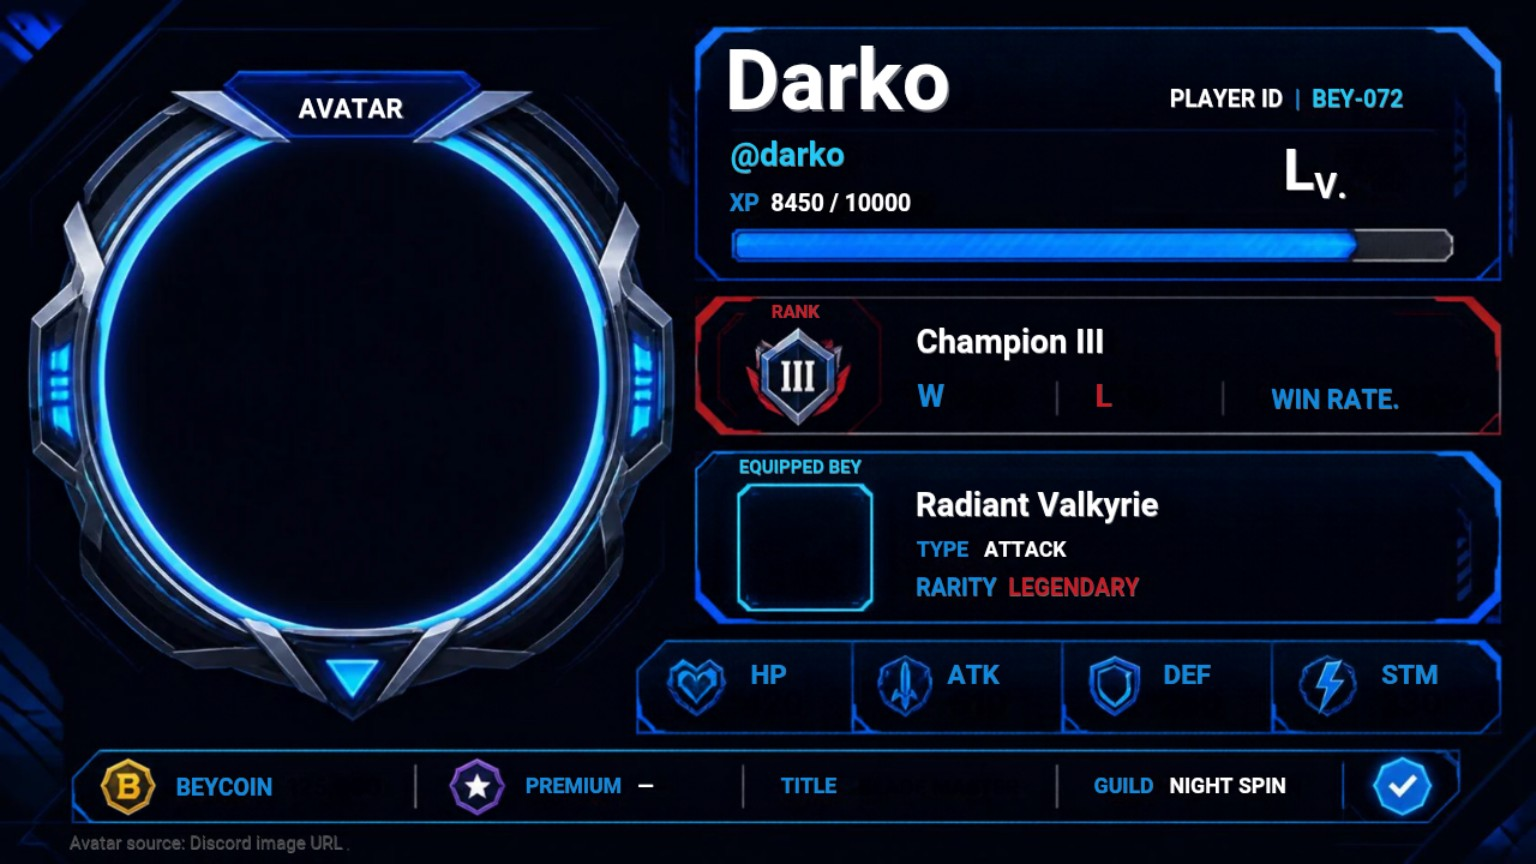
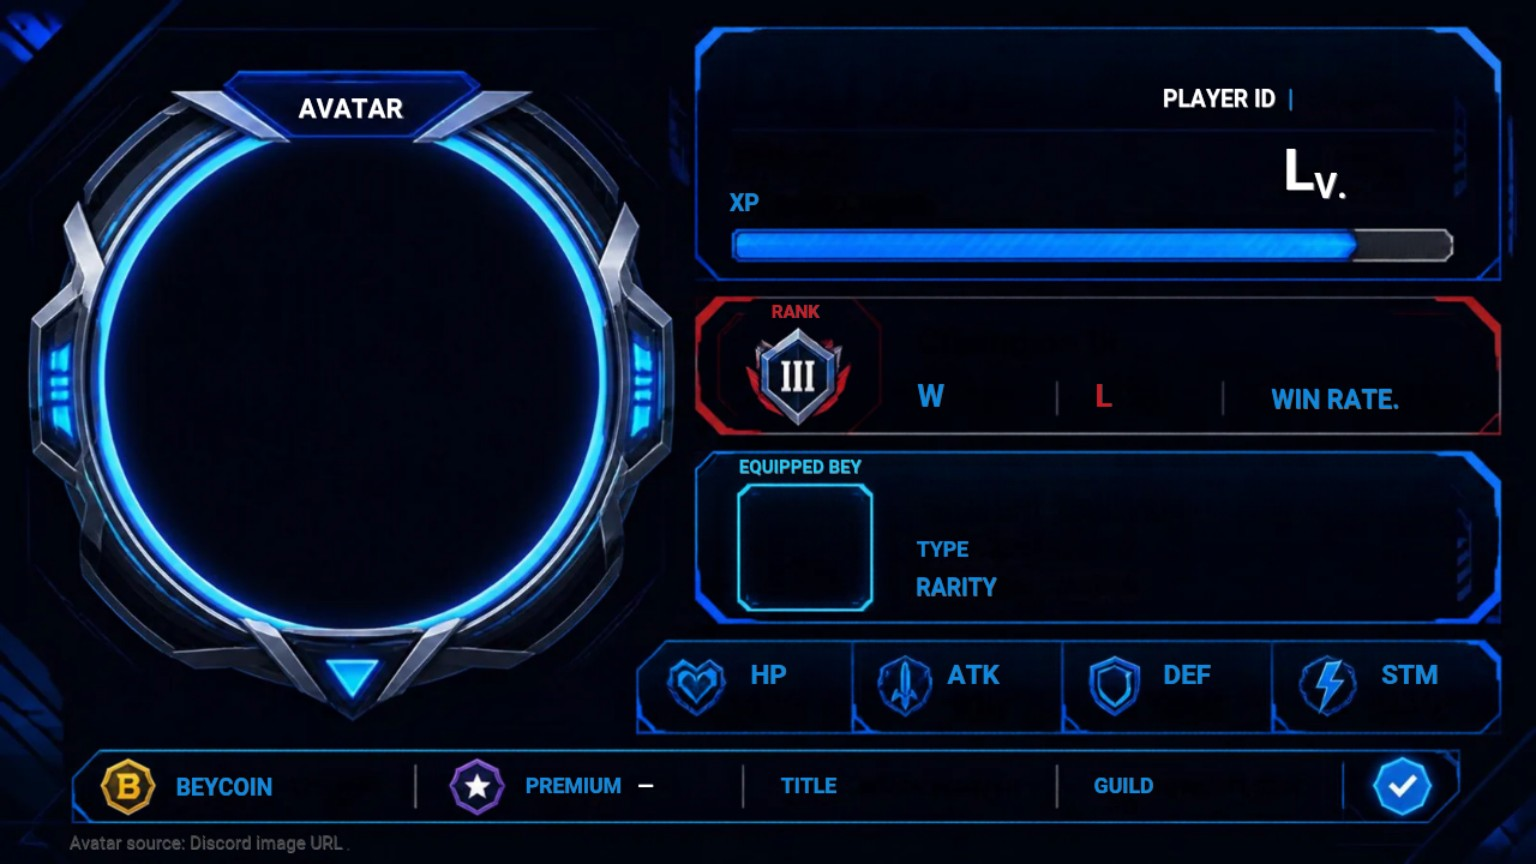
Test profile attachment delivery and center Cyber Arena Bey artwork

diff --git a/tools/sim_profile_cosmetics.py b/tools/sim_profile_cosmetics.py
@@ -9,6 +9,7 @@ import sys
 import tempfile
 from types import SimpleNamespace
 import unittest
+from contextlib import asynccontextmanager
 from unittest.mock import AsyncMock, patch
 
 sys.path.insert(0, str(Path(__file__).resolve().parents[1]))
@@ -71,6 +72,63 @@ class CosmeticTests(unittest.TestCase):
 
 
 class IntegrationTests(unittest.IsolatedAsyncioTestCase):
+    async def test_profile_command_sends_discord_jpeg_and_switch_updates_attachment(self):
+        from PIL import Image
+        from cogs.economy.profile import ProfileCog, ProfileThemePicker
+        from utils import profile_card as pc
+        from utils import image_generator as ig
+        avatar_bytes = io.BytesIO()
+        Image.new("RGB", (512, 512), (250, 10, 20)).save(avatar_bytes, "PNG")
+        art_path = os.path.join(self.tmp.name, "test-blade.png")
+        # A narrow real PNG exercises trim/resize/centering, rather than a
+        # mocked square art function that hides geometry problems.
+        Image.new("RGBA", (30, 180), (0, 240, 40, 255)).save(art_path)
+        await self.db.mutate_user(1, lambda p: apply_profile_purchase(p, "cyber_arena"))
+        blade = {"name":"Test Blade", "type":"Attack", "rarity":"Epic", "level":2,
+                 "stats":{"hp":100,"attack":120,"defense":80,"stamina":90}}
+        owner = SimpleNamespace(id=1, display_name="Test Player", name="tester",
+            display_avatar=SimpleNamespace(replace=lambda **kw: SimpleNamespace(url="https://cdn.discordapp.com/avatars/1/test.png")))
+        @asynccontextmanager
+        async def typing():
+            yield
+        ctx = SimpleNamespace(author=owner, typing=typing, send=AsyncMock())
+        cog = ProfileCog(None)
+        pc.clear_cache()
+        with patch("urllib.request.urlopen", side_effect=lambda *a, **k: io.BytesIO(avatar_bytes.getvalue())), \
+             patch.object(ig, "_art_index", {"test blade":art_path}), \
+             patch.dict(ig._art_cache, {}, clear=True), \
+             patch.dict(ig._missing_art_cache, {}, clear=True), \
+             patch("cogs.battle.boss.boss_copy.equipped_blade", AsyncMock(return_value=(blade, None))), \
+             patch("utils.loadout.effective_blade", AsyncMock(return_value=(blade, {}, None))), \
+             patch("cogs.casino.casino_premium.get_premium", AsyncMock(return_value=None)), \
+             patch("cogs.clans.clan_data.clan_of", return_value=None):
+            await ProfileCog.profile.callback(cog, ctx)
+            ctx.send.assert_awaited_once()
+            sent = ctx.send.call_args.kwargs
+            self.assertEqual(sent["file"].filename, "profile.jpg")
+            img = Image.open(sent["file"].fp)
+            self.assertEqual(img.format, "JPEG")
+            self.assertEqual(img.size, pc.CYBER_SIZE)
+            self.assertGreater(img.getpixel(pc.CYBER_AVATAR_C)[0], 230)
+            self.assertGreater(img.getpixel(pc.CYBER_ART_C)[1], 200)
+            self.assertEqual(sent["view"].children[0].label, "Switch Profile")
+            sent["file"].close()
+            message = SimpleNamespace(edit=AsyncMock())
+            for theme, size in [("default", (pc.W,pc.H)), ("cyber_arena", pc.CYBER_SIZE)]:
+                picker = await ProfileThemePicker(cog, owner, message).build()
+                await picker._selected(self.interaction(values=[theme]))
+                attachment = message.edit.call_args.kwargs["attachments"][0]
+                self.assertEqual(Image.open(attachment.fp).size, size)
+                self.assertEqual(self.store.get_one("1")["coins"], 10_000)
+                attachment.close()
+                picker.stop()
+            # Viewing someone else's card never exposes their switch control.
+            ctx.author = SimpleNamespace(id=2)
+            await ProfileCog.profile.callback(cog, ctx, owner)
+            self.assertIsNone(ctx.send.call_args.kwargs["view"])
+            ctx.send.call_args.kwargs["file"].close()
+        pc.clear_cache()
+
     async def asyncSetUp(self):
         from utils import database as db
         from utils.userstore import UserStore

diff --git a/utils/profile_card.py b/utils/profile_card.py
@@ -325,7 +325,9 @@ def _cyber_content(img, player, profile, blade, total_beys, rank_position, avata
         rarity = str(blade.get("rarity") or "Common")
         art = _blade_art(bey_name, 122)
         if art is not None:
-            img.alpha_composite(art.convert("RGBA"), (744, 487))
+            img.alpha_composite(art.convert("RGBA"),
+                                (CYBER_ART_C[0] - art.width // 2,
+                                 CYBER_ART_C[1] - art.height // 2))
         else:
             _initial_disc(img, draw, CYBER_ART_C, 49, bey_name, _rar_col(rarity))
         text(bey_name, 915, 484, 538, 34)

diff --git a/cogs/economy/profile.py b/cogs/economy/profile.py
@@ -1112,7 +1112,7 @@ class ProfileCog(commands.Cog, name="Profile"):
         # safe: the whole render is off the event loop.
         try:
             avatar_url = target.display_avatar.replace(
-                format="png", size=256).url
+                format="png", size=(512 if equipped_theme(profile_doc) == "cyber_arena" else 256)).url
         except Exception:                                # noqa: BLE001
             avatar_url = getattr(getattr(target, "display_avatar", None),
                                  "url", None)
